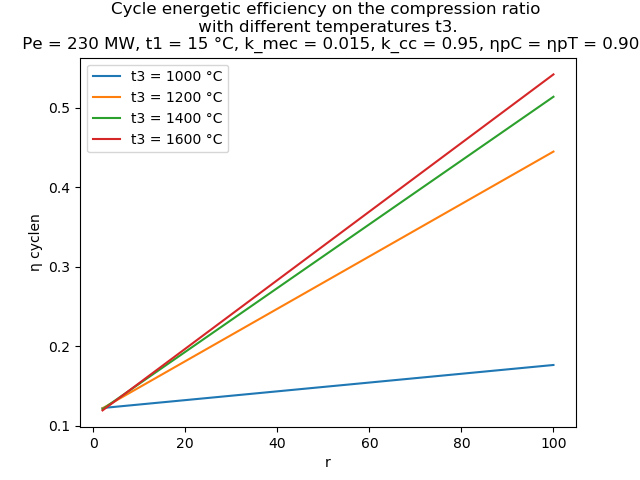
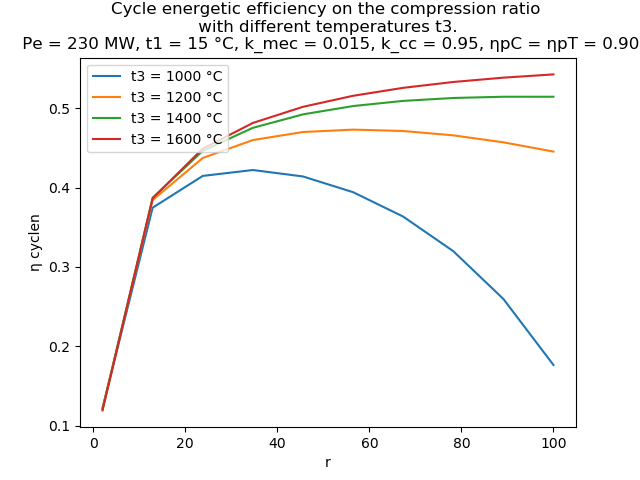
hello

diff --git a/GR_5/GT.py b/GR_5/GT.py
@@ -112,6 +112,7 @@ def GT(GT_input):
         T2=T2_new
 
     s2 = useful.janaf_integrate_air(useful.cp_air_T,conc_mass1,Mm_a,273.15,T2,0.001)-Ra*np.log(r)
+    #h2 = air_enthalpy(T2,conc_mass1,Mm_a)- air_enthalpy(T0,conc_mass1,Mm_a)
     h2 = useful.janaf_integrate_air(useful.cp_air,conc_mass1,Mm_a,273.15,T2,dt)/1000
     e2 = h2-T0*s2/1000
 
@@ -274,23 +275,34 @@ def GT(GT_input):
 
     # T S graph of the cycle
     Ta = np.linspace(T1,T2,50)
-    Tb = np.linspace(T2,T3,50)
+    #Tb = np.linspace(T2,T3,50)
     Tc = np.linspace(T4,T3,50)
     Td = np.linspace(T1,T4,50)
     Sa= np.zeros(len(Ta))
+    #Sb = np.zeros(len(Tb))
     Sc = np.zeros(len(Tc))
+    #Sd = np.zeros(len(Td))
     for i in range(len(Ta)):
         Sa[i] = s1+(1-eta_pic)*useful.janaf_integrate_air(useful.cp_air_T,conc_mass1,Mm_a,T1,Ta[i],dt)
-        Sc[i] = s4-(1-eta_pit)/eta_pit*useful.janaf_integrate_air(useful.cp_air_T,conc_mass2,Mm_af,T4,Tc[i],dt)
+        Sc[i] = s4-(1-eta_pit)/eta_pit*useful.janaf_integrate_air(useful.cp_air_T,conc_mass1,Mm_a,T4,Tc[i],dt)
+        #Sb[i] = s2+useful.janaf_integrate_air(useful.cp_air_T,conc_mass1,Mm_a,T2,Tb[i],dt)
+        #Sd[i]= s1 + useful.janaf_integrate_air(useful.cp_air_T,conc_mass1,Mm_a,T1,Td[i],dt)
 
+<<<<<<< HEAD
     Sb=np.linspace(s2,s3,50)
     a,b= np.polyfit([s2,s3],[T2,T3],1)
     Sd=np.linspace(s1,s4,50)
     a2,b2= np.polyfit([s1,s4],[T1,T4],1)
+=======
+    Sb=np.linspace(Sa[-1],Sc[-1],50)
+    a,b= np.polyfit([Sa[-1],Sc[-1]],[Ta[-1],T3],1)#  ==> c est faux
+    Sd=np.linspace(Sa[0],Sc[0],50)
+    a2,b2= np.polyfit([s1,s4],[T1,T4],1) #==> c est faux
+>>>>>>> parent of 2d9a0e9... yo
 
     fig3,ax1 = plt.subplots()
     ax1.plot(Sa,Ta-273.15,Sc,Tc-273.15,Sb,a*Sb+b-273.15,Sd,a2*Sd+b2-273.15)
-    ax1.scatter([s1,s2,s3,s4],[T1-273.15,T2-273.15,T3-273.15,T4-273.15],s=10,label='states')
+    ax1.scatter([s1,Sa[-1],Sc[-1],s4],[T1-273.15,Ta[-1]-273.15,T3-273.15,T4-273.15],s=10,label='extremities')
     ax1.set_xlabel('Entropy [J/kg/K]')
     ax1.set_ylabel('Tempearature [°C]')
     ax1.grid(True)

diff --git a/GR_5/GTexchanger.py b/GR_5/GTexchanger.py
@@ -293,13 +293,16 @@ def GT(GT_input):
 
     # T S graph of the cycle
     Ta = np.linspace(T1,T2,50)
-    Tb = np.linspace(T2,T3,50)
+    #Tb = np.linspace(T2,T3,50)
     Tc = np.linspace(T4,T3,50)
     Td = np.linspace(T1,T4,50)
     Sa= np.zeros(len(Ta))
+    #Sb = np.zeros(len(Tb))
     Sc = np.zeros(len(Tc))
+    #Sd = np.zeros(len(Td))
     for i in range(len(Ta)):
         Sa[i] = s1+(1-eta_pic)*useful.janaf_integrate_air(useful.cp_air_T,conc_mass1,Mm_a,T1,Ta[i],dt)
+<<<<<<< HEAD
         Sc[i] = s4-(1-eta_pit)/eta_pit*useful.janaf_integrate_air(useful.cp_air_T,conc_mass2,Mm_af,T4,Tc[i],dt)
 
     Sb=np.linspace(s2r,s3,50)
@@ -310,6 +313,20 @@ def GT(GT_input):
     a2,b2= np.polyfit([s1,s5],[T1,T5],1)
     Sd_pre=np.linspace(s5,s4,40)
     a2_pre,b2_pre= np.polyfit([s5,s4],[T5,T4],1)
+=======
+        Sc[i] = s4-(1-eta_pit)/eta_pit*useful.janaf_integrate_air(useful.cp_air_T,conc_mass1,Mm_a,T4,Tc[i],dt)
+        #Sb[i] = s2+useful.janaf_integrate_air(useful.cp_air_T,conc_mass1,Mm_a,T2,Tb[i],dt)
+        #Sd[i]= s1 + useful.janaf_integrate_air(useful.cp_air_T,conc_mass1,Mm_a,T1,Td[i],dt)
+
+    Sb=np.linspace(s2r,Sc[-1],50)
+    Sb_pre = np.linspace(Sa[-1],s2r,40)
+    a,b= np.polyfit([s2r,s3],[T2r,T3],1)#  ==> c est faux
+    a_pre,b_pre= np.polyfit([s2,s2r],[T2,T2r],1)#  ==> c est faux
+    Sd=np.linspace(Sa[0],s5,50)
+    a2,b2= np.polyfit([s1,s5],[T1,T5],1) #==> c est faux
+    Sd_pre=np.linspace(s5,Sc[0],40)
+    a2_pre,b2_pre= np.polyfit([s5,s4],[T5,T4],1) #==> c est faux
+>>>>>>> parent of 2d9a0e9... yo
 
     fig3,ax1 = plt.subplots()
     ax1.plot(Sa,Ta-273.15,Sc,Tc-273.15,Sb,a*Sb+b-273.15,Sd,a2*Sd+b2-273.15,Sb_pre,a_pre*Sb_pre+b_pre-273.15,Sd_pre,a2_pre*Sd_pre+b2_pre-273.15)
